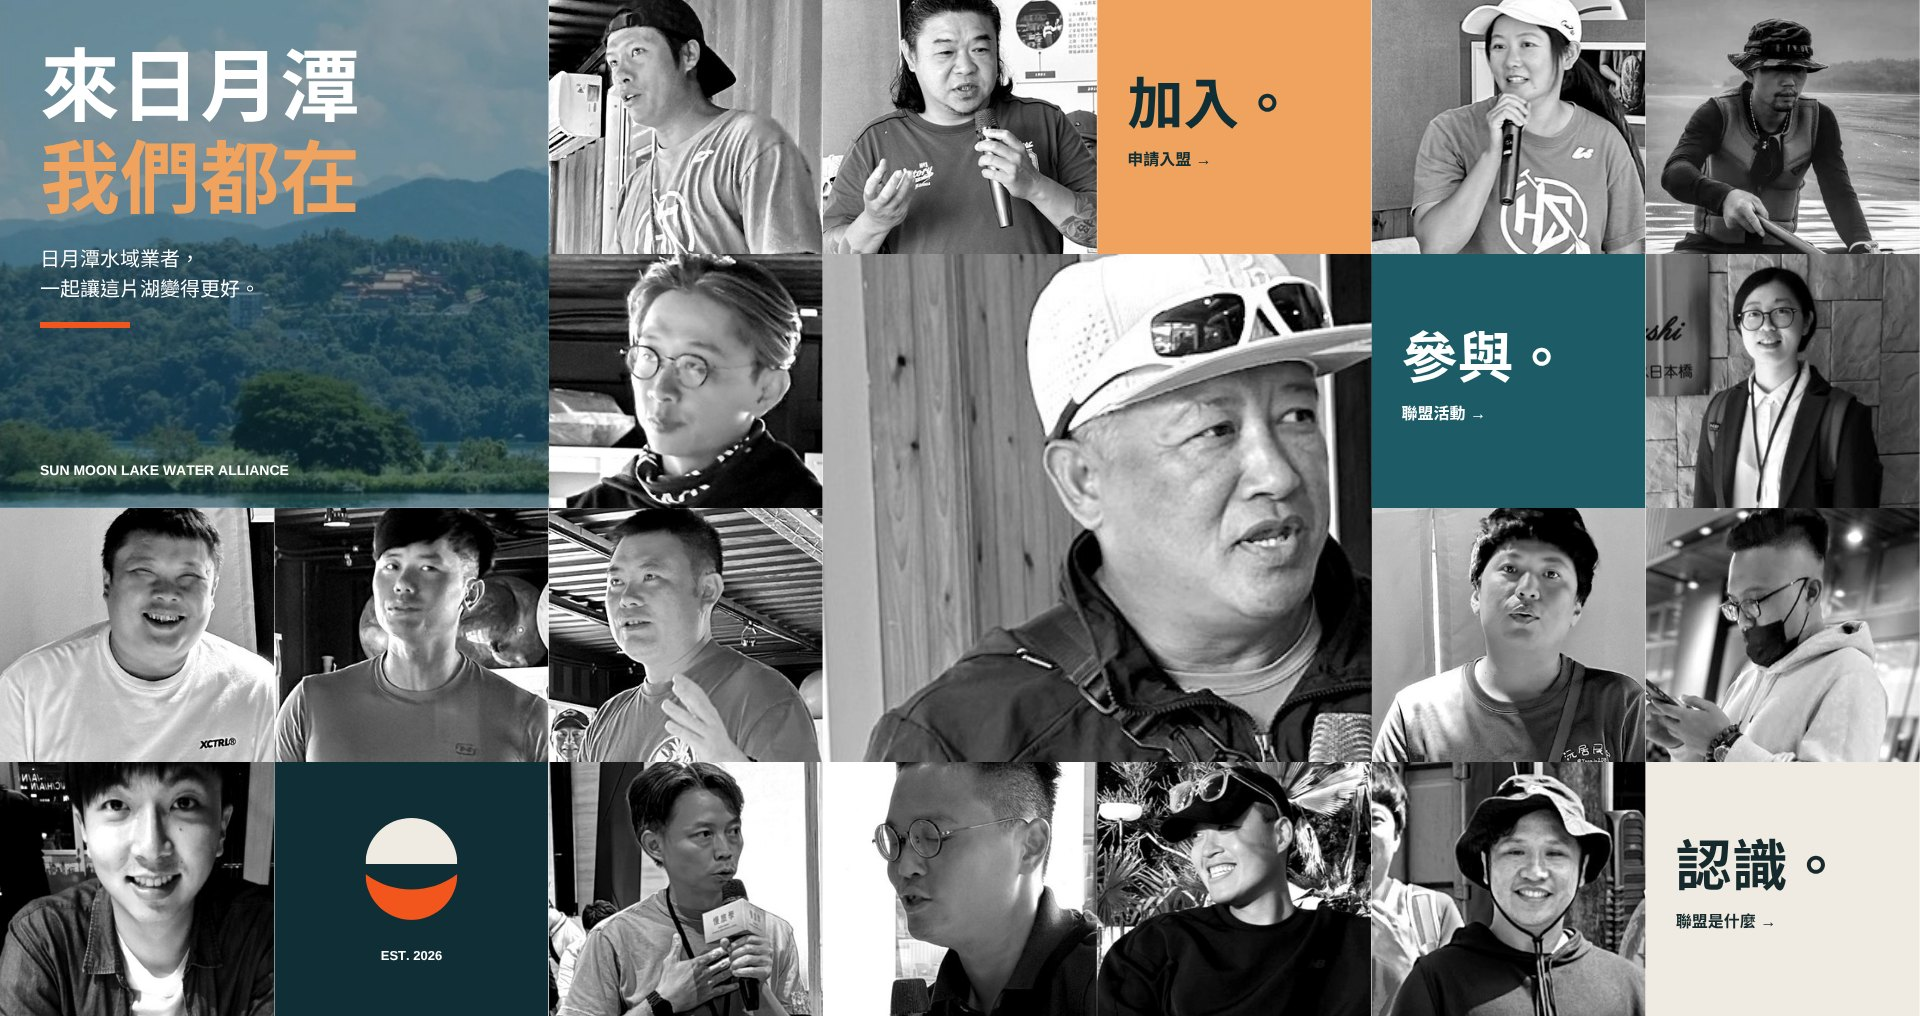
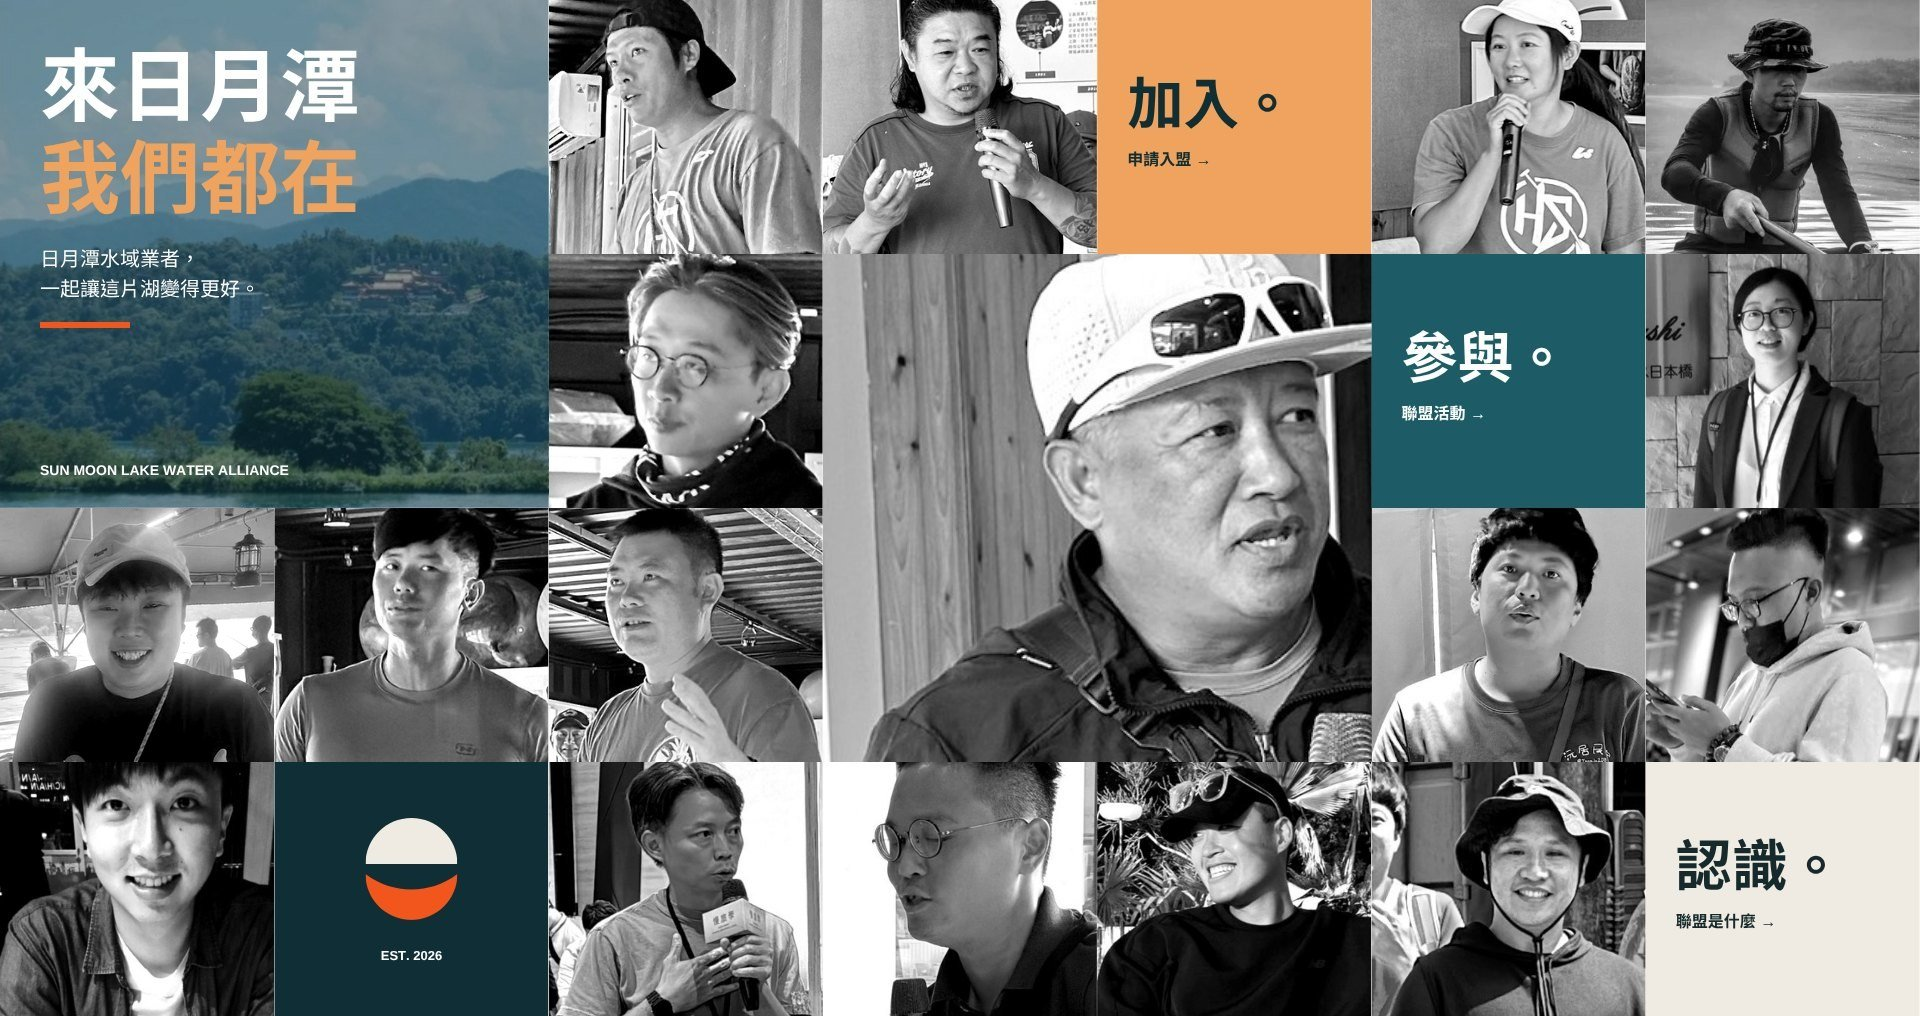
首頁人像牆：控制狂士瑞換新照片
Claude-Session: https://claude.ai/code/session_01Js8xSsW9gh93oqqT9u2Yo4

Changed region(s): [[0.0, 0.4882, 0.1562, 0.7628]]

diff --git a/index.html b/index.html
@@ -32,8 +32,8 @@
 <section class="hero" data-hide-sticky>
   <div class="hero-art">
     <picture>
-      <source type="image/webp" srcset="/assets/img/hero-members-960.webp 960w, /assets/img/hero-members.webp 1920w" sizes="100vw">
-      <img class="hero-img" src="/assets/img/hero-members.jpg" alt="來日月潭，我們都在：日月潭湖景與聯盟業者夥伴們的人像牆" width="1920" height="1016" fetchpriority="high">
+      <source type="image/webp" srcset="/assets/img/hero-members-960.webp?v=20261121 960w, /assets/img/hero-members.webp?v=20261121 1920w" sizes="100vw">
+      <img class="hero-img" src="/assets/img/hero-members.jpg?v=20261121" alt="來日月潭，我們都在：日月潭湖景與聯盟業者夥伴們的人像牆" width="1920" height="1016" fetchpriority="high">
     </picture>
     <a class="hot hot-join" href="/join/" aria-label="加入聯盟：申請入盟"></a>
     <a class="hot hot-events" href="/events/" aria-label="參與聯盟活動"></a>
